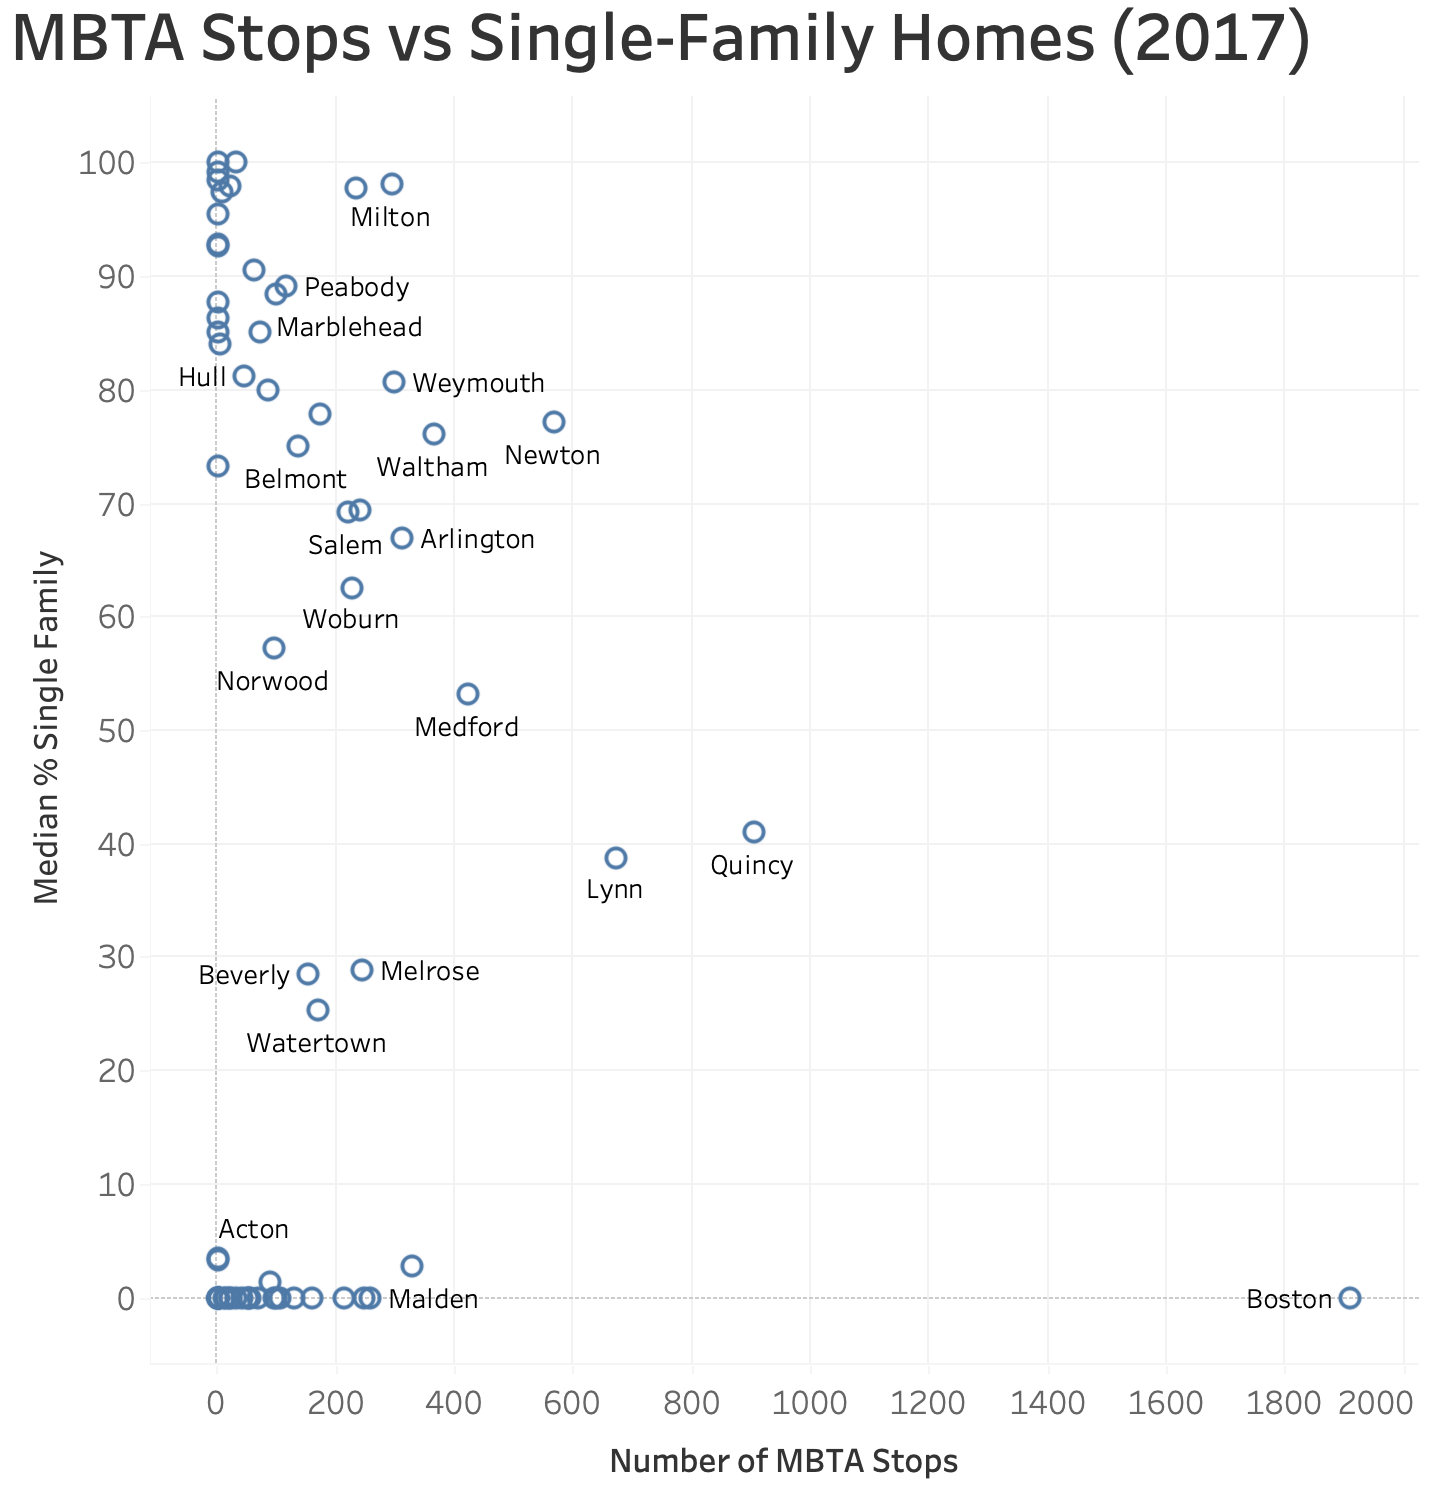
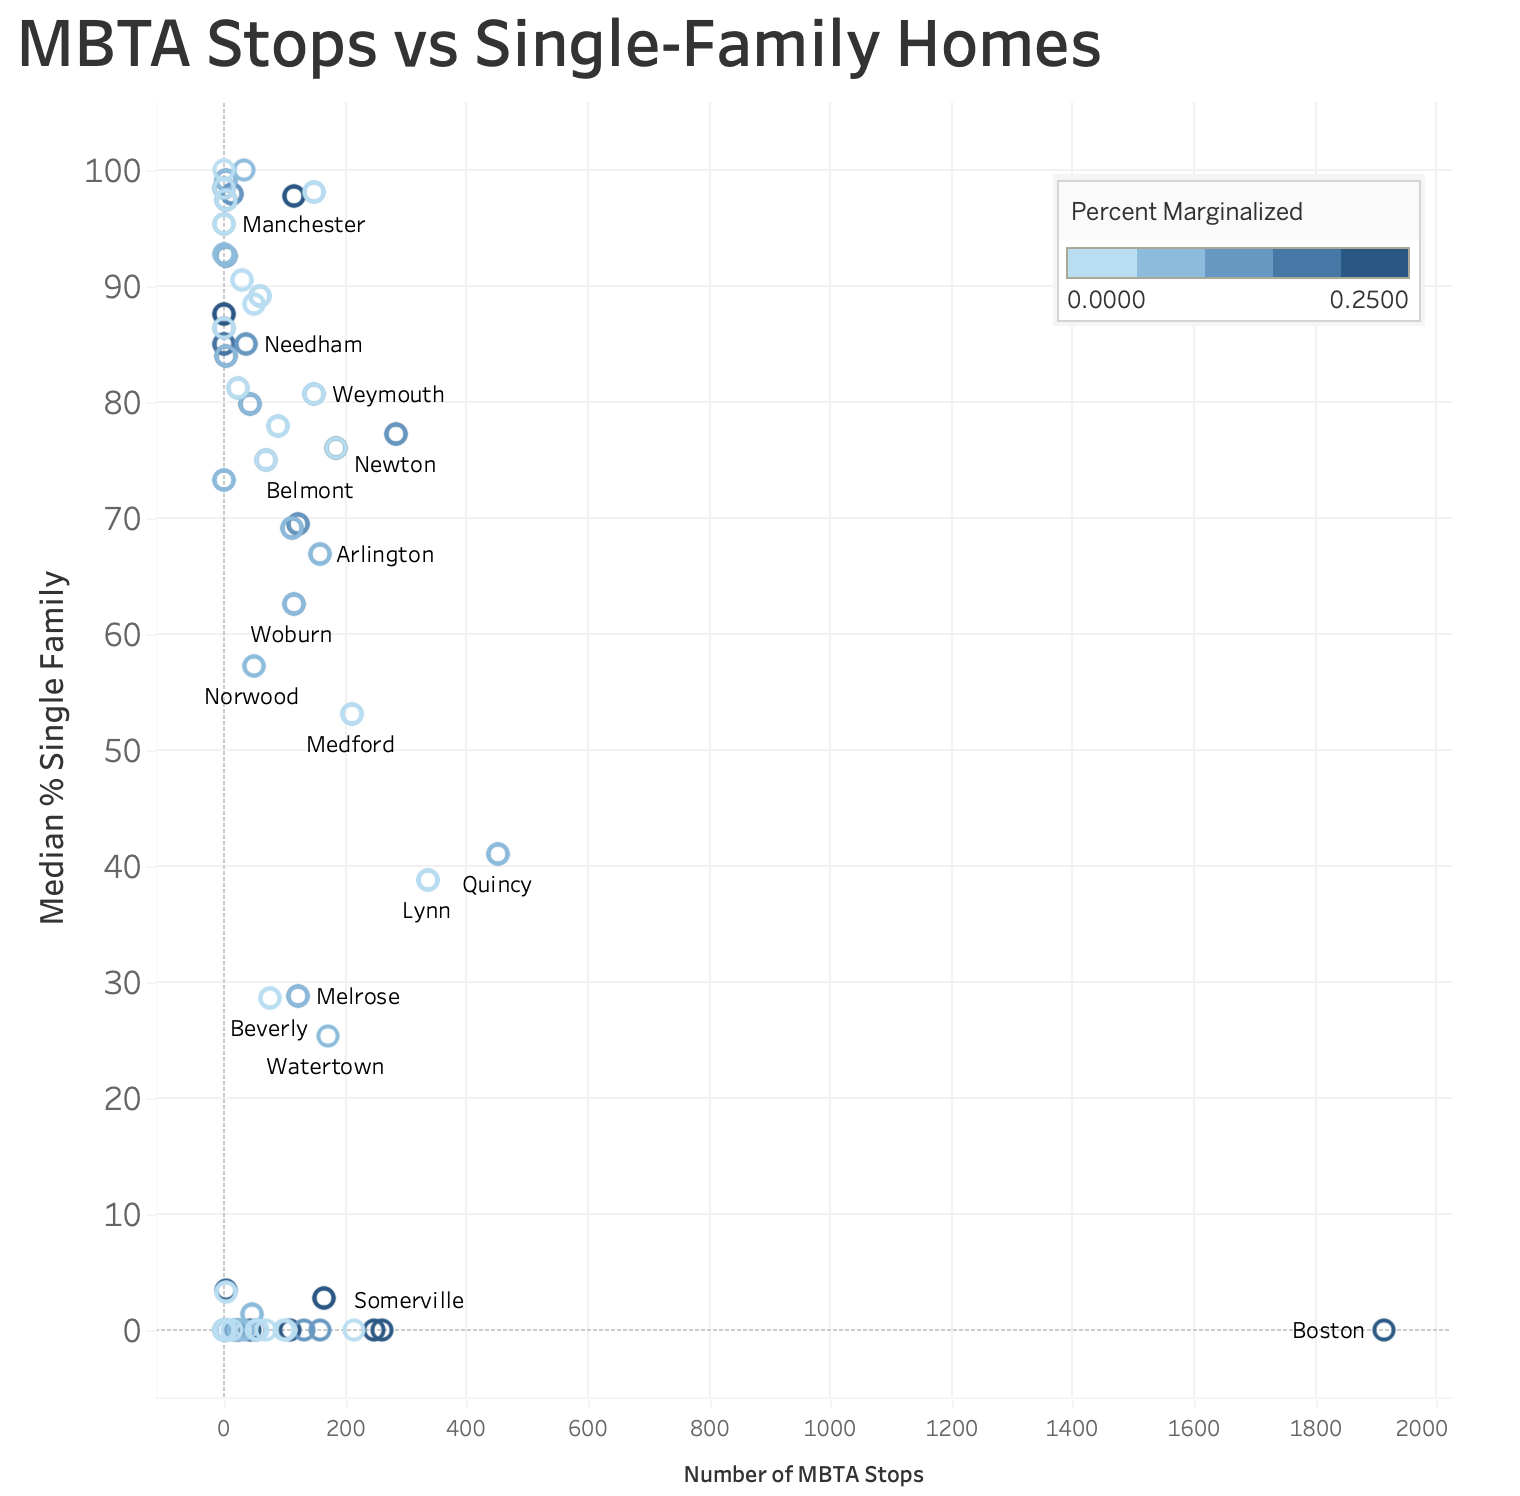
test

diff --git a/index.html b/index.html
@@ -48,6 +48,14 @@
 				<li>Residential sales data in the City of Boston, 2000-2023</li>
 				<li>Single family zoning vs other housing zoning in Metro Boston</li>
 			</ul>
+			<h3>Additional Sources</h3>
+			<ul>
+				<li><a href="https://www.bostonfairhousing.org/timeline/">Timeline of Housing Discrimination from the Fair Housing Center of Greater Boston</a></li>
+
+				<li><a href="https://www.bostonindicators.org/reports/report-detail-pages/exclusionary-by-design">Exclusionary by Design: An Investigation of Zoning’s Use as a Tool of Race, Class, and Family Exclusion in Boston’s Suburbs, 1920 to Today</a></li>
+
+				<li><a href="https://www.mass.gov/info-details/multi-family-zoning-requirement-for-mbta-communities">MBTA Communities Act</a></li>
+			</ul>
 
 		</section>
 
@@ -60,6 +68,9 @@
 				Single-family zoning along MBTA transit lines, illustrating how zoning policies affect housing density and development.
 				</figcaption>
 			</figure>
+			
+
+			<p>Figure 1. gives us the opportunity to observe the present state of zoning and how it correlates with the MBTA’s transit line layout. Shown above are three major methods of commuting into and out of Boston for many people in the Greater Boston Area: commuter bus, commuter rail, and rapid transit. We see that the percentage of single-family housing set aside through zoning is roughly correlated with proximity to the MBTA lines. That is, there is a higher quantity of single-family homes set aside near MBTA lines, which could limit the potential for more dense housing development. This is counterintuitive to Transit-Oriented Development (TOD) principles, as higher housing density near transit lines would make for more efficient use of space, allowing residents to commute easily without personal transportation. Zoning that forces low housing density, even in areas with robust public transportation, means more land is allocated for driving and parking rather than for increasing the housing supply. As a result, space is being underutilized where transit could otherwise support greater urban density and address the housing crisis in the Greater Boston area.</p>
 
 
 			<figure>
@@ -69,6 +80,8 @@
 				</figcaption>
 			</figure>
 
+			<p>To gain another perspective on the relation between zoning and the MBTA, we observe Figure 2., which counts the number of MBTA stops by municipality, highlighted by the percent of non-white population in each municipality. As in Figure 1., we observe little correlation between the single-family percentage and the number of MBTA stops, rather than a higher number of MBTA stops corresponding to a lower percentage of single-family zoning. This lack of correlation suggests that areas with more transit access are not prioritizing higher-density development. We also see little correlation to marginalized communities, indicating a gap in reversing the disadvantages placed upon historically marginalized groups. In fact, much of the single-family zoning appears to occur in areas with low marginalized population. This disconnect highlights how municipalities are not addressing broader equity and housing challenges in these areas. </p>
+
 			<figure>
 				<img src="Plots/Number of MBTA Stops by Municipality.png" alt="" style="width: 100%; height: auto;"/>
 				<figcaption>
@@ -76,12 +89,16 @@
 				</figcaption>
 			</figure>
 			
+			<p>To add further context to the distribution of MBTA stops, we observe in Figure 3. the graphical spread of the number of MBTA stops by municipality. The plot has been capped at 500 to account for Boston being an outlier. The uneven distribution of public transportation highlights that certain municipalities will have to demonstrate greater focus on upzoning to increase housing density near transit stops. There is a need for intentional planning to ensure that TOD benefits underserved communities, many of which are underserved due to historical marginalization by redlining and zoning practices.</p>
+
 			<figure>
 				<img src="Plots/Redlining and MBTA.png" alt="" style="width: 100%; height: auto;"/>
 				<figcaption>
 				A historical view of redlining practices in relation to MBTA transit routes, emphasizing long-standing effects on marginalized communities.
 				</figcaption>
 			</figure>
+
+			<p>Redlining was the process of governments systematically denying public services to residents of certain neighborhoods, often based on racial or ethnic composition. This occurred by way of designating certain areas on a scale from "A" to "D". In other words, areas were labelled as "Best", "Still Desirable", "Definitely Declining", and "Hazardous". Redlining contributed to long-term economic disadvantages and housing segregation, and the effects of which are apparant in the routes created by the MBTA. It can be seen in Figure 4. that the rapid transit lines more directly serve "A" and "B" group areas, with "C" and "D" group areas being passed by or avoided by the lines, further providing a disadvantage to these historically marginalized communities. This aligns with the zoning laws observed in Figures 1. and 2., and thus also highlights the necessity for zoning reform in a manner that attempts to reverse the economic disadvantages and housing segregation marginalized communities have experienced.</p>
 
 			<figure>
 				<img src="Plots/MBTA Communities Demographics.png" alt="" style="width: 100%; height: auto;"/>
@@ -90,13 +107,8 @@
 				</figcaption>
 			</figure>
 
+			<p>Figure 5. supports the conclusion that the long-term effects of redlining are apparent in the MBTA network. The MBTA Communities Act, which mandates zoning reforms for communities serviced by the MBTA, seeks to address some of these historical effects on marginalized demographics. Figure 5. breaks down communities serviced by the MBTA by demographic characteristics, showcasing differences in demographic between MBTA and non-MBTA communities. It casn be observed that areas not served by the MBTA will tend to have a lower popoulation of white people, and greater numbers of Latinos and mixed-race individuals. This showcases the need for the MBTA Communities Act to incorporate equity considerations more effectively, ensuring that all neighborhoods benefit from improved transit-oriented development (TOD), regardless of their demographics.</p>
 
-			<figure>
-				<img src="Plots/Owner-Occupancy Rate in Marginalized Communities.png" alt="" style="width: 100%; height: auto;"/>
-				<figcaption>
-				Owner-occupancy rates in historically marginalized communities along MBTA routes, highlighting disparities in homeownership across different demographics.
-				</figcaption>
-			</figure>
 
 			<figure>
 				<img src="Plots/Single Families Marginalized.png" alt="" style="width: 100%; height: auto;"/>
@@ -105,13 +117,28 @@
 				</figcaption>
 			</figure>
 
+
+			<p>Figure 6. ties back the low single-family zoning correlation with marginalized communities. Apart from highly populated locations where there is 0% single-family zoning, there tends to be a trend of more marginalized populations having a high percentage allocated to single-family homes through zoning. This highlights that zoning is preventing higher-density housing from being built in marginalized communities and shows the need for upzoning and for TOD, which can contribute to reversing the issue that originated in redlinig practices.</p>
+
+
+			<figure>
+				<img src="Plots/Owner-Occupancy Rate in Marginalized Communities.png" alt="" style="width: 100%; height: auto;"/>
+				<figcaption>
+				Owner-occupancy rates in historically marginalized communities along MBTA routes, highlighting disparities in home ownership across different demographics.
+				</figcaption>
+			</figure>
+
+			<p>The negative effects of historical redlining and zoning practices in the Greater Boston area have improved only slightly over the last 20 years. Figure 7. shows that Boston municipalities with a low marginalized population have experienced decreasing owner occupancy rates. In these areas, wealthier, predominantly white communities have seen increased investment in housing by developers and owners who do not reside in the properties they own. These investors often purchase properties for rental income or future resale, driving up housing prices and reducing the availability of owner-occupied homes. In contrast, communities with higher marginalized populations have seen more stable owner occupancy rates, suggesting that these areas remain more reliant on long-term residents who live in and own their homes, but that there exists a gap in housing for new residence who wish to reside in the area. This shift emphasizes the growing divide in housing market dynamics between wealthier, predominantly white areas and more marginalized communities, as investor-driven development increasingly targets richer neighborhoods.</p>
+
 			<figure>
 				<img src="Plots/Condo Conversions along MBTA Lines.png" alt="" style="width: 100%; height: auto;"/>
 				<figcaption>
 				Condominium conversions in communities along the MBTA transit lines, showing development trends and density changes.
 				</figcaption>
 			</figure>
-			
+
+			<p>Investor-driven development is further highlighted by observing condominium conversions by developers being concentrasted along MBTA lines. The condominium conversions involve increasing the number of people who can a home in order to be able to rent out and house a greater number of people. We see such development focused more closely to MBTA lines where greater housing density benefits the city and aligns with the principles of TOD. </p>
+
 			<figure>
 				<img src="Plots/Residential Sales over MBTA Lines.png" alt="" style="width: 100%; height: auto;"/>
 				<figcaption>
